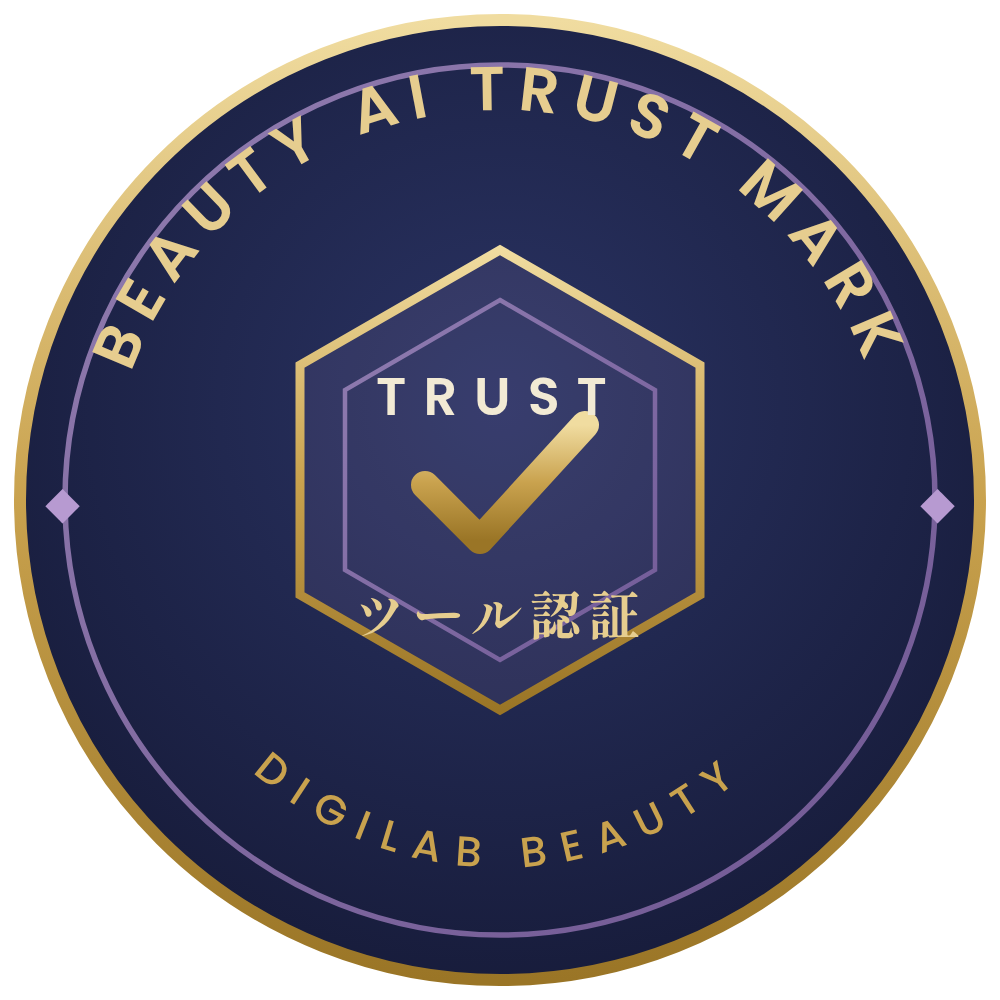
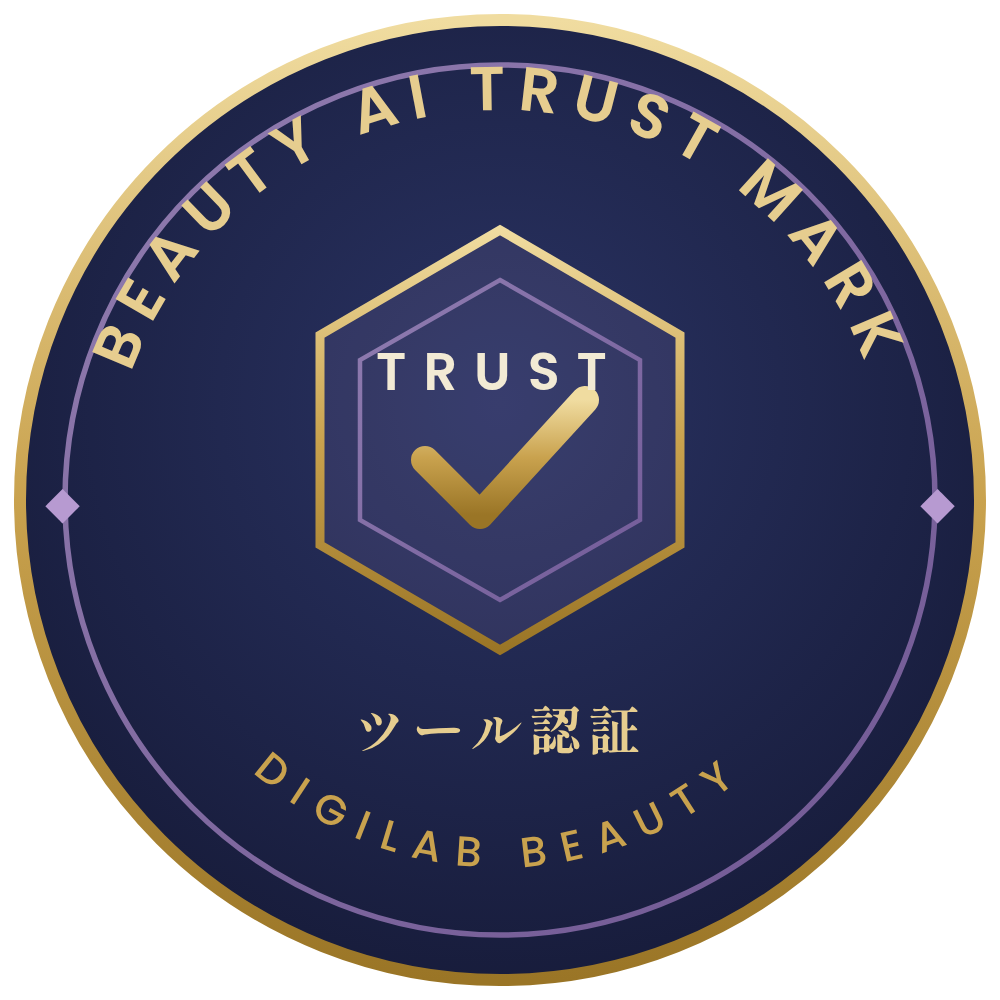
認証マークにスペクトラム版・ライト版を追加
濃紺以外のカラーパターンとして、AI文脈が一目で伝わる配色を追加。

- スペクトラム版: インクブラック地 × アクア(#5eead4)→シアン(#38bdf8)→
  バイオレット(#a78bfa)のグラデーション。Web・アプリ・SNS向け
- ライト版: 白地 × 同系グラデーション(濃度を上げてコントラスト確保)。
  白背景の印刷・店頭掲示向け
- トラストマークの六角形を縮小し、「ツール認証」を六角形の外に配置
  (既存のネイビー版も同じ配置に統一)
- README: 3版の使い分け表と、対外的な正は1つに決める旨の注記を追加

Claude-Session: https://claude.ai/code/session_01H8zMZDeFeyE2Uupa7kPdoj

Changed region(s): [[0.279, 0.217, 0.713, 0.775]]

diff --git a/marketing/assets/certification/README.md b/marketing/assets/certification/README.md
@@ -7,8 +7,10 @@
 | ファイル | 用途 |
 |---|---|
 | `emblem_grade3/2/1.svg` `.png` | 認定エンブレム(級位別)。LP・認定証・SNSで使用。PNGは1000×1000・背景透過 |
-| `mark_ai_safe_salon.svg` `.png` | AIセーフサロン認証マーク。認証サロンの店頭・Web掲示用 |
-| `mark_beauty_ai_trust.svg` `.png` | ビューティAIトラストマーク。認証ベンダーのサイト・資料用 |
+| `mark_ai_safe_salon.svg` `.png` | AIセーフサロン認証マーク(ネイビー×ゴールド) |
+| `mark_beauty_ai_trust.svg` `.png` | ビューティAIトラストマーク(ネイビー×ゴールド) |
+| `mark_*_spectrum.svg` `.png` | 同・**スペクトラム版**(インクブラック × アクア→シアン→バイオレット)。デジタル面向け |
+| `mark_*_light.svg` `.png` | 同・**ライト版**(白背景 × 同グラデーション)。白地の印刷・店頭掲示向け |
 | `ogp_kentei.html` | 検定LPのOGP画像のソース。→ `public/kentei/ogp.png`(1200×630) |
 | `certificate_kentei.html` | 検定合格者の認定証テンプレート(A4横) |
 | `certificate_salon.html` | AIセーフサロン認証の認証証書テンプレート(A4縦・掲示用) |
@@ -23,10 +25,20 @@
 
 Webフォント(Shippori Mincho B1 / Noto Sans JP / Poppins)を参照しているため、**オンライン状態で開くこと**。
 
+## カラーバリエーションの使い分け
+
+| 版 | 想定 | 意図 |
+|---|---|---|
+| ネイビー×ゴールド(正) | 認定証・認証証書・LP・印刷物・報道資料 | 検定/認証の権威性。エンブレム(級位)と揃う |
+| スペクトラム(ダーク) | Web・アプリ・SNS・展示会スクリーン | アクア→シアン→バイオレットで「AI」の文脈を明示 |
+| ライト | 白地のチラシ・店頭POP・書類の隅 | 白背景で沈まない。線と文字のコントラストを確保 |
+
+> **注意:** 認証マークは「見分けがつくこと」が価値なので、**対外的な正は1つに決めること**を推奨する。3版を並列に使うとマークとしての識別性が落ちる。理事会で正を決め、残りは補助扱い(同一デザイン・色違い)と位置づける。
+
 ## 使用ルール(重要)
 
 1. マーク・エンブレムは**有効な認定・認証を受けた者だけ**が、有効期間中に限り使用できる。失効時は速やかに撤去する。
-2. 縦横比を変えない。色を変えない。文字を追加・削除しない。
+2. 縦横比を変えない。**本フォルダにある3版以外の色に変更しない**。文字を追加・削除しない。
 3. 認証マークの掲示には**認証番号と有効期限を併記**する(証書テンプレートは併記済み)。
 4. 「安全を保証するもの」と読める表現と併記しない。正しくは「所定の基準への適合を確認したもの」。
 5. 詳細な許諾条件は使用許諾規程(整備予定)に従う。商標出願中の名称・図形を含むため、第三者への再配布は不可。
